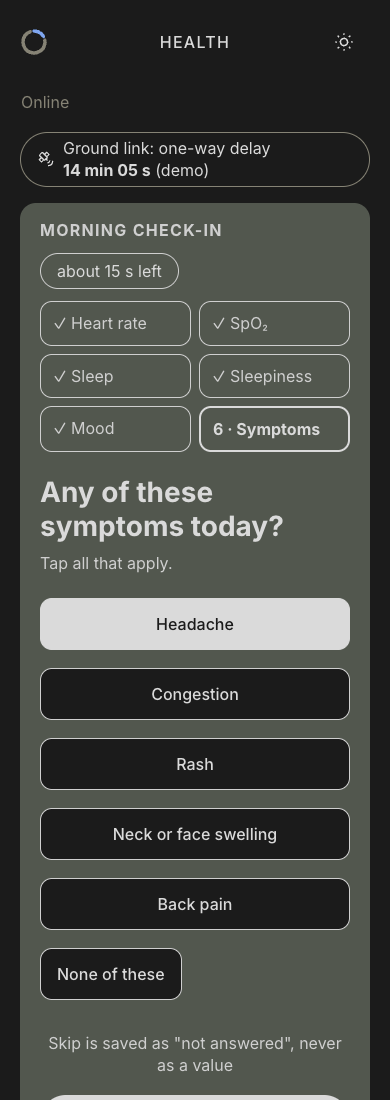
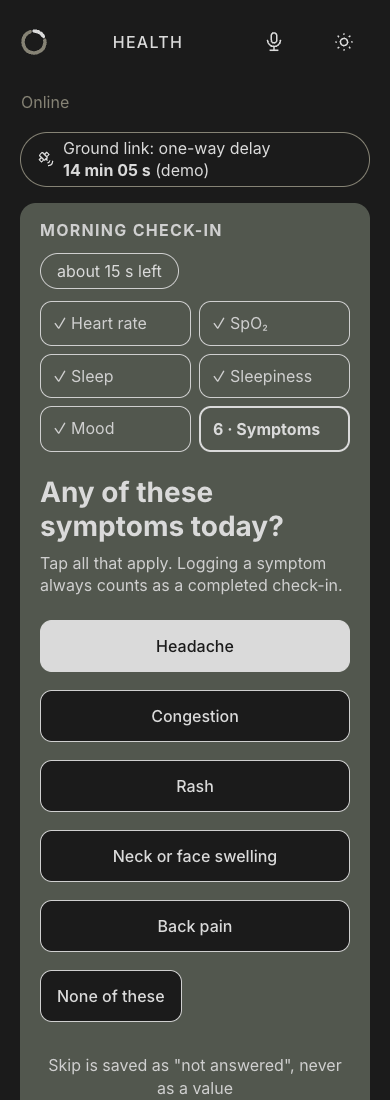
docs(checkin): F13 status, guidelines, and Done after Save in the older feature docs and shot helper (#40)

Changed region(s): [[0.0923, 0.4945, 0.9231, 1.0], [0.3077, 0.0309, 0.5846, 0.0618], [0.6769, 0.0309, 0.7385, 0.0618]]

diff --git a/ideas/ui-guidelines.md b/ideas/ui-guidelines.md
@@ -227,7 +227,7 @@ Brand mark (28 px, not a button) on the left, wordmark "HEALTH" in the centre (b
 - **Structure:** a tile is the field. Its `<label>` wraps the uppercase label, the "/ unit" suffix and the input. The input is transparent DM Mono at value size, so the tile reads like a metric tile being filled in.
 - **Edge and focus:** a 1 px `--color-edge` border (3.20:1 light, 4.53:1 dark), and focus shows a 2 px `--color-focus` ring around the whole tile. Inside a card the tile is inset (`--color-inset`) and the edge switches to `--color-edge-on-surface` (3.57:1 light, 4.76:1 dark).
 - **Errors:** an icon plus a sentence under the field in `--color-text`. Never red or yellow.
-- **Questionnaires (built: issue #29):** one question per screen, the instrument's own anchors, progress and time left, and "Skip" always allowed (see [crew-health-companion.md](crew-health-companion.md), "Rendering rules"). Step tabs show progress, not navigation (current step: 2 px `--color-text` outline, bold). Number questions use the field tile; an invalid value shows an info icon and "Enter … , or skip." in `--color-text` under it. Scales and checklists are 52 px+ buttons 18 px apart; the selection is the inverse fill, never a status colour.
+- **Questionnaires (built: issue #29):** one question per screen, the instrument's own anchors, progress and time left, and "Skip" always allowed (see [crew-health-companion.md](crew-health-companion.md), "Rendering rules"). Step tabs show progress, not navigation (current step: 2 px `--color-text` outline, bold). Number questions use the field tile; an invalid value shows an info icon and "Enter … , or skip." in `--color-text` under it. Scales and checklists are 52 px+ buttons 18 px apart; the selection is the inverse fill, never a status colour. After "Save check-in" the same screen shows the completion (issue #40): a text ✓ in a 2 px `--color-text` circle, "Check-in complete · HH:MM" at the value size, the steps answered and time taken, the acknowledgement, a "What happens next" inset box when a symptom was logged, the routine streak card (14 day cells on the inset colour, today with a 2 px `--color-text` outline, a legend, a "synthetic" caption, three counter tiles) and "Done". No level colour or badge anywhere.
 
 ### Level badge
 
@@ -257,7 +257,7 @@ Routing is a separate, neutral outline pill (each level has a default, a rule ro
 
 ### Icons
 
-**Library: [Tabler Icons](https://tabler.io/icons), outline set** (`@tabler/icons-react` 3.50.0, MIT, 5,000+ icons) [I1]. It is the same rounded 24 px line style as the canvas icons, and of the line libraries it covers the most health and body concepts. The full vocabulary, rendered: [mockups/icons.png](mockups/icons.png). The sheet has no source in the repo, so icons added after it (`ChevronIcon`: chevron = "opens detail", #9; `StepDoneIcon`, `StepCurrentIcon`, `StepPendingIcon`: a timeline step done, current or pending, #19; `VoiceIcon`: Tabler's `microphone` = "voice control", #37) are not in it. `StepDoneIcon` is Tabler's `circle-filled`, the one filled icon in the app: a check would read as the ✓ of Nominal on the same screen.
+**Library: [Tabler Icons](https://tabler.io/icons), outline set** (`@tabler/icons-react` 3.50.0, MIT, 5,000+ icons) [I1]. It is the same rounded 24 px line style as the canvas icons, and of the line libraries it covers the most health and body concepts. The full vocabulary, rendered: [mockups/icons.png](mockups/icons.png). The sheet has no source in the repo, so icons added after it (`ChevronIcon`: chevron = "opens detail", #9; `StepDoneIcon`, `StepCurrentIcon`, `StepPendingIcon`: a timeline step done, current or pending, #19; `VoiceIcon`: Tabler's `microphone` = "voice control", #37; `PausedIcon`: Tabler's `player-pause` = "streak day paused for sickness or rest", #40) are not in it. `StepDoneIcon` is Tabler's `circle-filled`, the one filled icon in the app: a check would read as the ✓ of Nominal on the same screen. One exception, approved by the team for #40: the check-in completion draws a text ✓ in a circle beside "Check-in complete", because that screen shows no status badge.
 
 - **Import by concept from [`src/ui/icons.tsx`](../src/main/frontend/src/ui/icons.tsx)**, never from `@tabler/icons-react` directly: `RespiratoryIcon`, `CautionIcon`, `Spo2Icon`, `GroundLinkIcon`. One concept has one icon everywhere, and one icon has one meaning [S1 V2 10010/10011]. A new concept is one export line there, plus a row in the sheet.
 - **Defaults:** every icon is `aria-hidden` and 22 px. The word next to it, or the button's `aria-label`, carries the meaning. Sizes are 18 px in badges and pills, 20 px in navigation, 22 px in tiles and 30 px for the header "add".
@@ -294,7 +294,7 @@ Why Tabler (checked 2026-11-14 against 64 concepts the app needs, from the packa
 - **Units with every value**, one unit system everywhere (SI, plus mmHg for pressure) [S1 V2 10046].
 - **Write for non-physicians** [S1 V2 7045]: short sentences, the instrument's own anchors, "may contribute", "consider raising". Never a diagnosis.
 - **Explanations** answer what, why, how it was decided and what next.
-- **No message praises or blames a value.** Reporting is a win: "Logged. Thanks for reporting."
+- **No message praises or blames a value.** Reporting is a win: "Logged: headache. Thanks for reporting."; with no symptom logged, "No symptoms logged. Thanks for checking in."
 - **Mood is self-reported (1–5).** Stress or emotion is never inferred from sensors, face or voice.
 
 ## 8. Checklist for every UI pull request

diff --git a/docs/features/10-todays-routine.md b/docs/features/10-todays-routine.md
@@ -2,7 +2,7 @@
 
 The "Today's routine" card on home lists what the crewmember has to do today. The Morning check-in row is real: it reads upcoming before 07:00, due from 07:00 with a "Start · ~90 s" button (it opens the check-in at `#/check-in`, [#29](29-check-in-questionnaire.md)), "done HH:MM" once any check-in is saved today, and "not answered" from 09:00. State comes from the device clock and the stored check-ins, so it works offline and moves within 60 s of the clock. PVT, exercise, fluids and Bedford workload are synthetic placeholder rows (`src/main/frontend/src/infrastructure/mockRoutine.ts`) that look the same at every time of day. Feature F15 in [features.md](../../ideas/features.md); issue [#10](https://github.com/jdo-lv/galagans/issues/10).
 
-**Try it:** `mvn clean verify`, then `mvn spring-boot:run`, open http://localhost:8080. Before 07:00 the row is upcoming, between 07:00 and 09:00 it is due; click "Start · ~90 s", which opens the check-in ([#29](29-check-in-questionnaire.md)); answer or skip the steps and click "Save check-in" to see "done HH:MM".
+**Try it:** `mvn clean verify`, then `mvn spring-boot:run`, open http://localhost:8080. Before 07:00 the row is upcoming, between 07:00 and 09:00 it is due; click "Start · ~90 s", which opens the check-in ([#29](29-check-in-questionnaire.md)); answer or skip the steps, click "Save check-in", then "Done" ([#40](40-reporting-win.md)) to see "done HH:MM".
 
 **Retake the screenshots** with the app running: `target/node/node docs/features/10-todays-routine.shots.mjs` (script: [10-todays-routine.shots.mjs](10-todays-routine.shots.mjs)). It fixes the page's local clock to 2026-11-14 with an injected `Date`, and clears the stored check-ins before each shot. `APP_URL` points it at another server and `CDP_PORT` picks another DevTools port. All shots are 1280 px wide unless the heading says otherwise.
 

diff --git a/docs/features/7-latest-readings.md b/docs/features/7-latest-readings.md
@@ -2,7 +2,7 @@
 
 The "Latest readings" card on home shows the crewmember's last SpO₂, heart rate, sleep and mood at a glance. Each tile shows the value with its unit, the data age and the source tag "manual". SpO₂ carries the same caution or warning badge as the Respiratory row. A value older than 24 h looks stale, and a field never entered shows "—". Blood pressure and cabin CO₂ have no input in the app yet, so they show fixed synthetic values labelled "synthetic" (`src/main/frontend/src/infrastructure/mockReadings.ts`). Everything works offline. Feature F6 in [features.md](../../ideas/features.md); issue [#7](https://github.com/jdo-lv/galagans/issues/7).
 
-**Try it:** `mvn clean verify`, then `mvn spring-boot:run`, open http://localhost:8080, click "+" (Add entry) in the header and enter heart rate, SpO₂, sleep and mood on their steps, then "Save check-in" ([#29](29-check-in-questionnaire.md)). Saving only SpO₂ 92 or 88 changes the SpO₂ tile and keeps the other values.
+**Try it:** `mvn clean verify`, then `mvn spring-boot:run`, open http://localhost:8080, click "+" (Add entry) in the header and enter heart rate, SpO₂, sleep and mood on their steps, then "Save check-in" ([#29](29-check-in-questionnaire.md)) and "Done" ([#40](40-reporting-win.md)). Saving only SpO₂ 92 or 88 changes the SpO₂ tile and keeps the other values.
 
 **Retake the screenshots** with the app running: `target/node/node docs/features/7-latest-readings.shots.mjs` (script: [7-latest-readings.shots.mjs](7-latest-readings.shots.mjs)). `APP_URL` points it at another server and `CDP_PORT` picks another DevTools port. These shots came from `npm run preview`, which doesn't serve `/api`, so the status bar shows check-ins waiting to sync. Headless Chrome followed the machine's dark theme. All shots are 1280 px wide unless the heading says otherwise.
 

diff --git a/docs/features/4-body-systems-list.md b/docs/features/4-body-systems-list.md
@@ -2,7 +2,7 @@
 
 The "Body systems" card on home lists all ten systems of mockup 01. Respiratory is the only system with rules (SPO-01/02, [#1](1-spo2-core-loop.md)), so it shows real check-in data. The other nine show fixed synthetic values from `src/main/frontend/src/infrastructure/mockStatuses.ts`, always "✓ Nominal", labelled "synthetic", with no data age and no explanation. When a rule row is added for one of those systems, its placeholder disappears and the real status takes its place. Feature F6 in [features.md](../../ideas/features.md); issue [#4](https://github.com/jdo-lv/galagans/issues/4).
 
-**Try it:** `mvn clean verify`, then `mvn spring-boot:run`, open http://localhost:8080, click "+" (Add entry) in the header, type an SpO₂ value on its step, click "Next →" through the other steps and "Save check-in" on the last ([#29](29-check-in-questionnaire.md)). **Retake the screenshots** with the app running: `target/node/node docs/features/4-body-systems-list.shots.mjs` (script: [4-body-systems-list.shots.mjs](4-body-systems-list.shots.mjs)).
+**Try it:** `mvn clean verify`, then `mvn spring-boot:run`, open http://localhost:8080, click "+" (Add entry) in the header, type an SpO₂ value on its step, click "Next →" through the other steps, "Save check-in" on the last ([#29](29-check-in-questionnaire.md)), then "Done" ([#40](40-reporting-win.md)). **Retake the screenshots** with the app running: `target/node/node docs/features/4-body-systems-list.shots.mjs` (script: [4-body-systems-list.shots.mjs](4-body-systems-list.shots.mjs)).
 
 ## Screens
 

diff --git a/docs/features/1-spo2-core-loop.md b/docs/features/1-spo2-core-loop.md
@@ -2,7 +2,7 @@
 
 The crew app now interprets a check-in. Each saved SpO₂ value is checked on the tablet against rules SPO-01 (< 94 % → caution) and SPO-02 (< 90 % → warning) in `src/main/frontend/src/infrastructure/rules.json`. The "Body systems" panel shows the Respiratory status with what, why, how it was decided, what to do next and who to involve. It works offline, and the list is re-read after each save and every 60 s. Features F4, F5 and F6 in [features.md](../../ideas/features.md); issue [#1](https://github.com/jdo-lv/galagans/issues/1).
 
-**Try it:** `mvn clean verify`, then `mvn spring-boot:run`, open http://localhost:8080, click "+" (Add entry) in the header, type an SpO₂ value on its step, click "Next →" through the other steps and "Save check-in" on the last ([#29](29-check-in-questionnaire.md)). **Retake the screenshots** with the app running: `target/node/node docs/features/1-spo2-core-loop.shots.mjs` (script: [1-spo2-core-loop.shots.mjs](1-spo2-core-loop.shots.mjs)).
+**Try it:** `mvn clean verify`, then `mvn spring-boot:run`, open http://localhost:8080, click "+" (Add entry) in the header, type an SpO₂ value on its step, click "Next →" through the other steps, "Save check-in" on the last ([#29](29-check-in-questionnaire.md)), then "Done" ([#40](40-reporting-win.md)). **Retake the screenshots** with the app running: `target/node/node docs/features/1-spo2-core-loop.shots.mjs` (script: [1-spo2-core-loop.shots.mjs](1-spo2-core-loop.shots.mjs)).
 
 ## Screens
 

diff --git a/ideas/features.md b/ideas/features.md
@@ -130,6 +130,7 @@ Each feature has: what it is, why it matters, how it works, an example, what it 
 - **Why:** astronauts are known to hide symptoms because they fear losing flights. Most health apps reward "good numbers"; we reward honesty, and never reward or compare health values.
 - **How:** streaks count only the process (check-ins done, exercise minutes, fluids). Sick days pause streaks, never reset them.
 - **Needs:** F1. See mockup [09-reporting-win.png](mockups/09-reporting-win.png).
+- **Status:** "Save check-in" shows a completion at `#/check-in` (issue #40): "Logged: headache (day 2). Thanks for reporting." or "Thanks for checking in.", a "What happens next" line per symptom (neck or face swelling: CMO only), and a routine streak that counts check-ins, with symptom days as done and paused days that never reset, over 14 day cells. The days before the first real check-in are a 13-day synthetic history, labelled as such; PVT sessions are real, exercise and fluid counters synthetic. Missing: marking a sick or rest day, real exercise and fluid counters (F17), the streak on home.
 
 #### F14. Surgeon packet with comms delay · Must
 - **What:** a summary for the doctor on Earth: flagged items, readings with sources, the astronaut's own notes, in standard FHIR format. A timeline shows when it leaves and when it arrives, e.g. "one-way delay 14 min 05 s".

diff --git a/docs/features/29-check-in-questionnaire.md b/docs/features/29-check-in-questionnaire.md
@@ -33,7 +33,7 @@ Nine big buttons with the S56 words under 1, 3, 5, 7 and 9; the pick is the inve
 ![Step 5](img/29-step-5.png)
 
 ### Step 6, Headache picked
-Symptoms toggle; "None of these" and any symptom cancel each other. "Save check-in" stores one check-in and returns home with focus on Body systems.
+Symptoms toggle; "None of these" and any symptom cancel each other. "Save check-in" stores one check-in and shows its completion ([#40](40-reporting-win.md)); "Done" returns home with focus on Body systems.
 ![Step 6](img/29-step-6.png)
 
 ### Phone (390 px)
